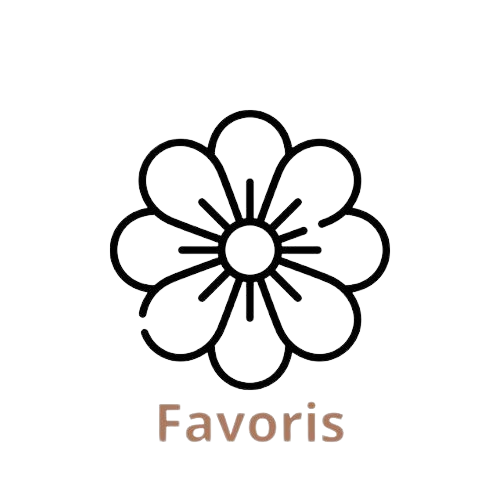
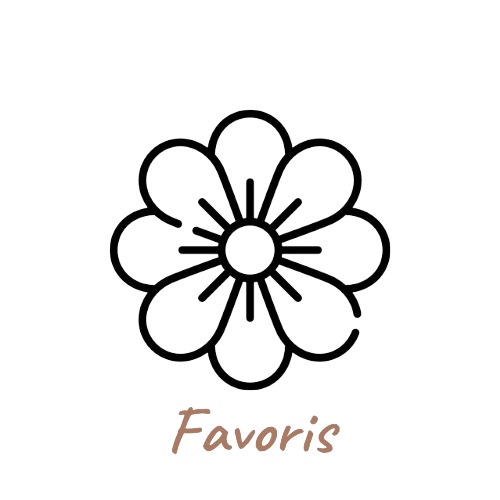
css page home

diff --git a/frontend/public/css/styles.css b/frontend/public/css/styles.css
@@ -1,6 +1,13 @@
+@import url('https://fonts.googleapis.com/css2?family=Caveat:wght@400;500;600;700&display=swap');
+
+h1, h2, h3, h4, h5, h6 {
+  font-family:  'Caveat', bold;
+}
+
 body {
-  font-family: Arial, sans-serif;
+  font-family: 'Caveat', bold;
   background-image: url('/images/fond.jpg');
+  background-color: rgba(255, 255, 255, 0.5); /* Ajustez l'opacité selon vos besoins */
   background-size: cover; 
   background-repeat: no-repeat; 
   background-position: center center;
@@ -37,14 +44,14 @@ h1 {
 }
 
 .logo { 
-  width: 150px;
+  width: 200px;
   height: auto;
   border-radius: 50%;
   margin: 0 10px;
 }  
 
 header img {
-  width: 100px; 
+  width: 120px; 
   height: auto; 
   border-radius: 50%; 
   margin: 0 10px; 
@@ -56,7 +63,8 @@ form {
   padding: 20px;
   background: #F7E1CD;
   box-shadow: 0 0 10px #f7e1cd(0, 0, 0, 0.1);
-  width: 200px;
+  width: 210px;
+  border-radius: 8px;
 }
 fieldset {
   margin-bottom: 20px;
@@ -151,8 +159,8 @@ input[type="password"] {
 }
 
 .product-item button {
-  background-color: #4CAF50;
-  color: white;
+  background-color: #f8d5a3;
+  color: black;
   border: none;
   padding: 10px 20px;
   cursor: pointer;
@@ -161,7 +169,7 @@ input[type="password"] {
 }
 
 .product-item button:hover {
-  background-color: #45a049;
+  background-color: #f4ac78;
 }
 
 
@@ -184,6 +192,28 @@ input[type="password"] {
   margin: 0 auto;
 }
 
+.product-link {
+  text-decoration: none;
+  color: black;
+  font-family: 'Caveat', bold;
+}
+
+.product-link,
+.button-common {
+  text-decoration: none;
+  color: black;
+  font-family: 'Caveat', cursive;
+  font-weight: 400; 
+}
+
+.product-link:hover,
+.product-link:focus,
+.button-common:hover,
+.button-common:focus {
+  text-decoration: none;
+  color: black;
+}
+
 .pagination {
   text-align: center;
   margin-top: 20px;
@@ -199,6 +229,12 @@ input[type="password"] {
 }
 
 .pagination a.active {
-  background: white;
+  background: gold;
   color: gold;
+}
+
+footer{
+  color: white;
+  display: flex;
+  justify-content: center;
 }
